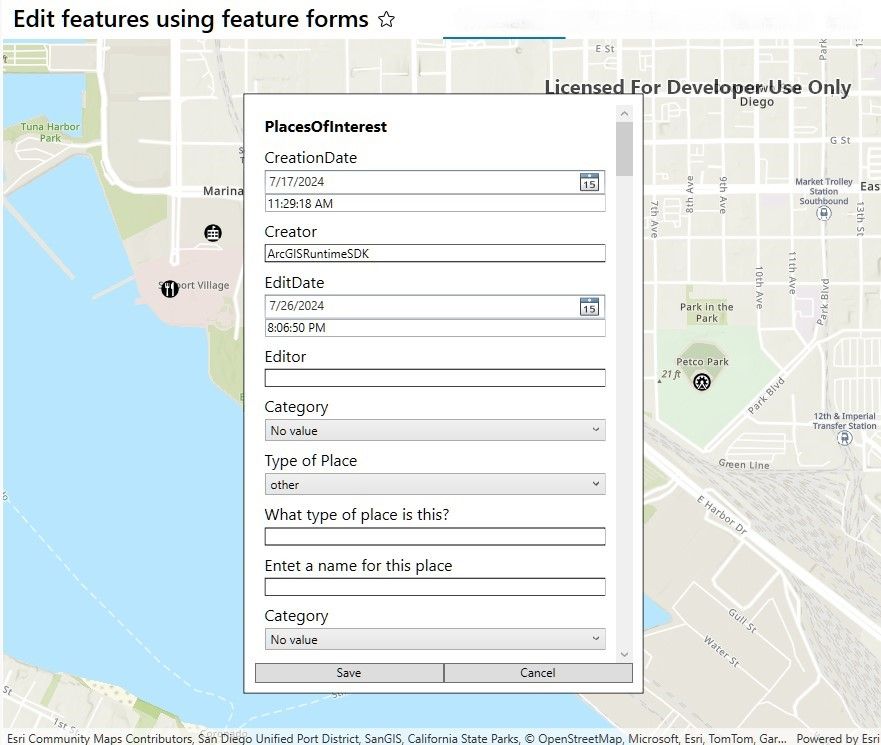
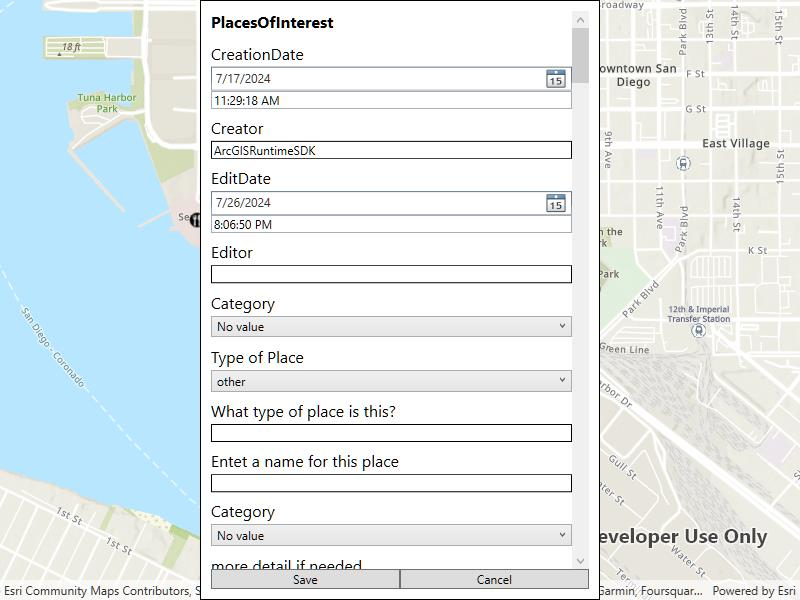
Update screenshots and modify Grid dimensions in XAML

diff --git a/src/WinUI/ArcGIS.WinUI.Viewer/Samples/Data/EditFeaturesUsingFeatureForms/EditFeaturesUsingFeatureForms.xaml b/src/WinUI/ArcGIS.WinUI.Viewer/Samples/Data/EditFeaturesUsingFeatureForms/EditFeaturesUsingFeatureForms.xaml
@@ -10,6 +10,8 @@
         <Grid x:Name="FeatureFormPanel"
               Visibility="Collapsed"
               Padding="20"
+              Width="400"
+              Height="600"
               Background="{ThemeResource ApplicationPageBackgroundThemeBrush}">
             <Grid.RowDefinitions>
                 <RowDefinition Height="*" />
